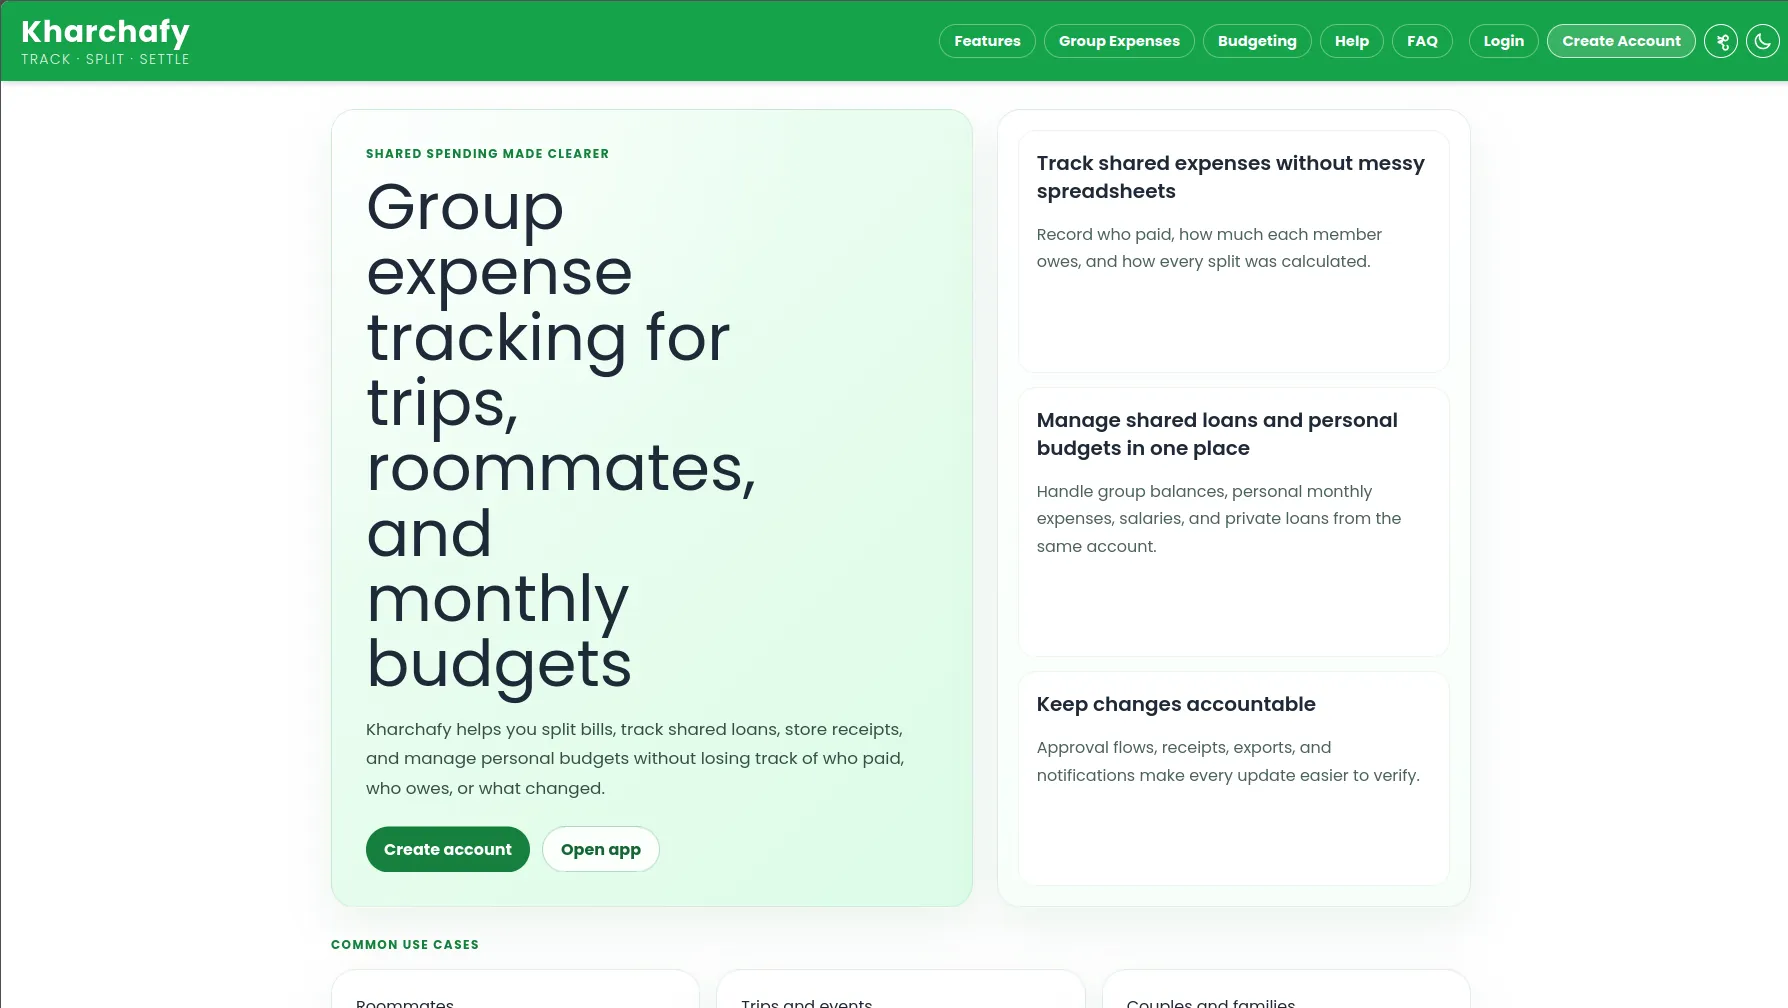
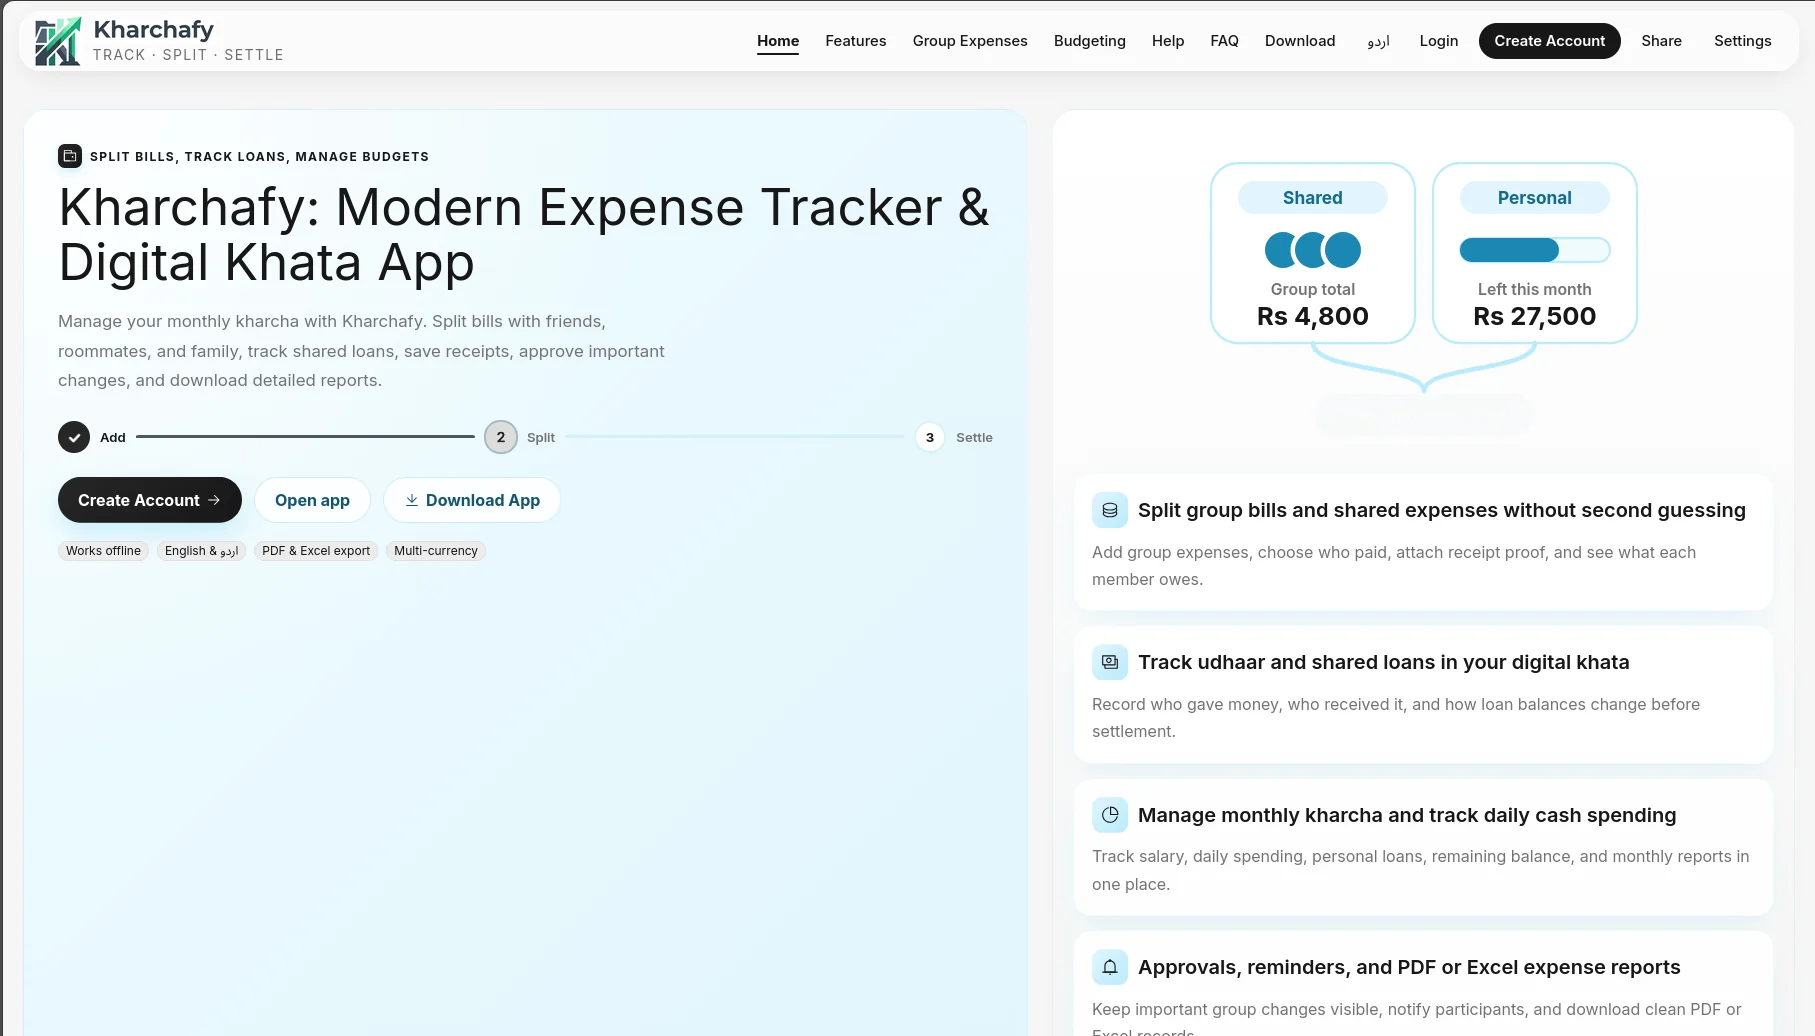
Update Kharchafy screenshot and project live links

diff --git a/src/data/project-links.js b/src/data/project-links.js
@@ -54,7 +54,7 @@ export const projects = [
   },
   {
     title: "Kharchafy — Group Expense, Loans, and Personal Budget Hub",
-    link: "https://g-exp-trk.netlify.app/",
+    link: "https://kharchafy-khata-application.vercel.app/",
     gLink: "https://github.com/Majid-Ali-Watto/group-expense-tracker",
     imgURL: "/kharchafy.webp",
     description:
@@ -139,7 +139,7 @@ export const projects = [
 
   {
     title: "User Management API",
-    link: "https://fake-user-api.up.railway.app/api/v1/users",
+    link: "https://fake-user-api-crud.vercel.app",
     gLink: "https://github.com/Majid-Ali-Watto/fake-user-api",
     imgURL: "/user-api.webp",
     description:
